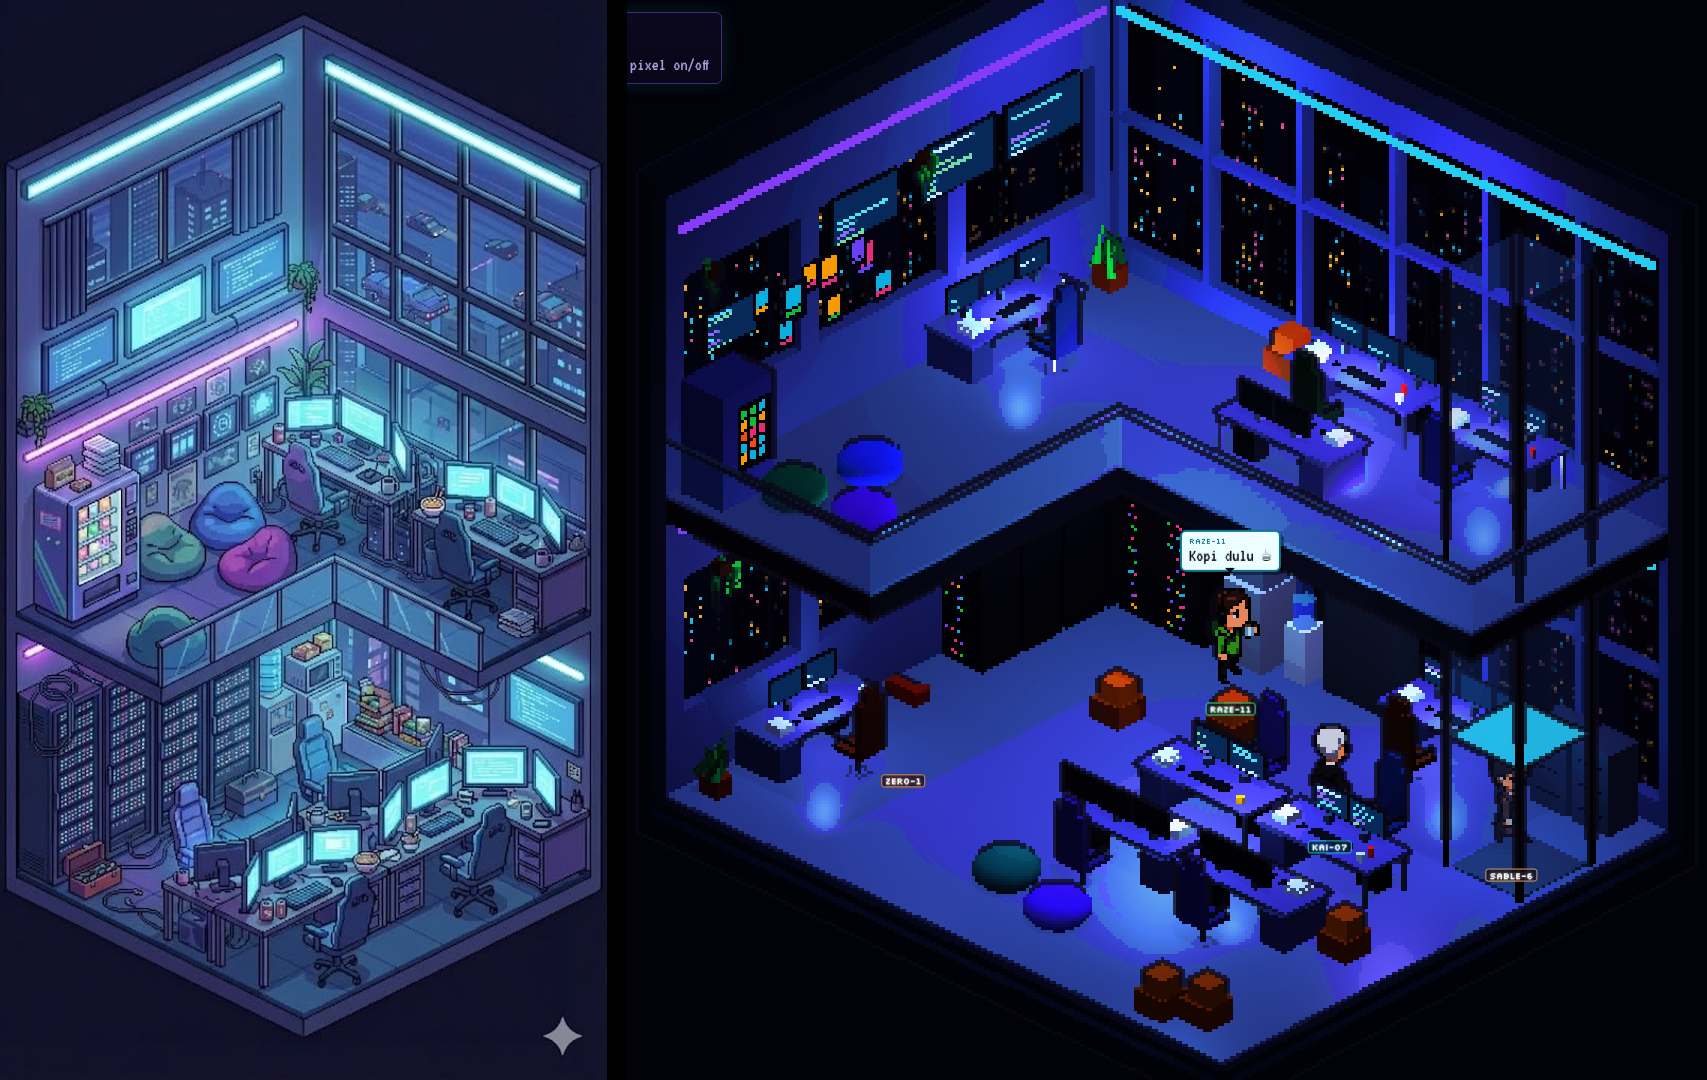
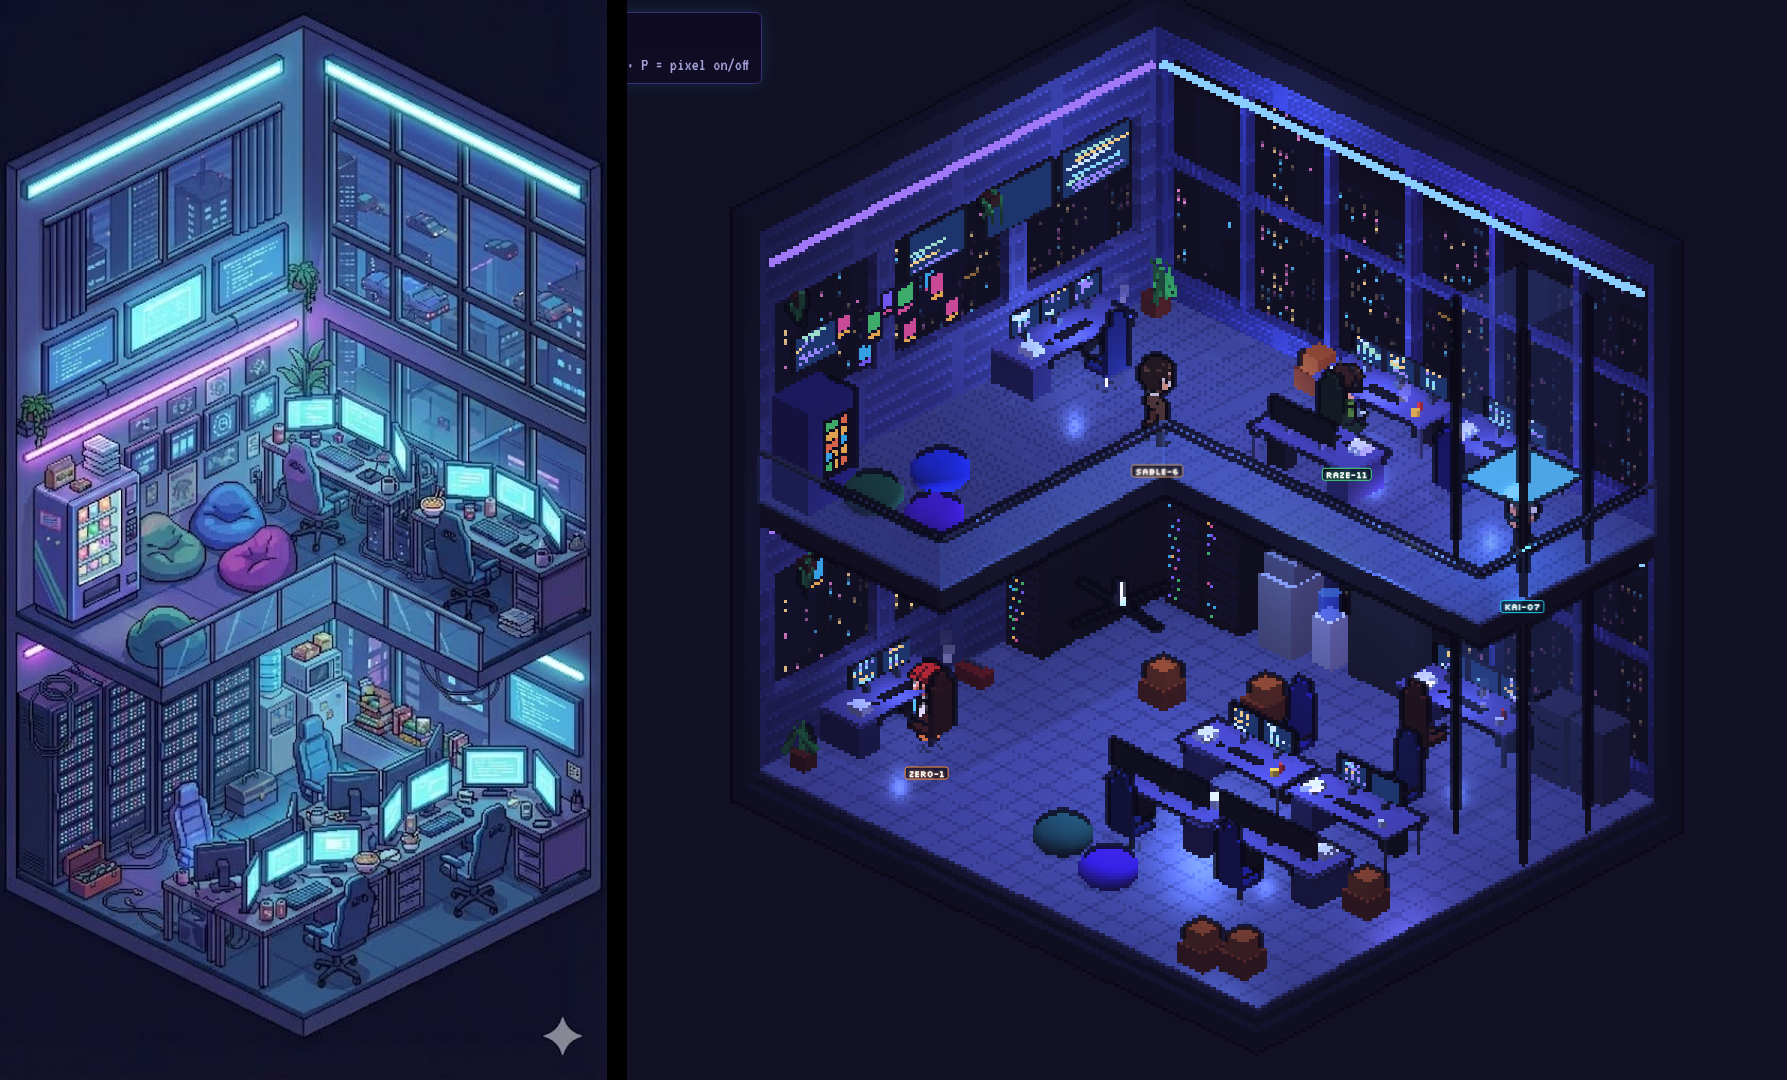
HD-2D round 3: lavender grading, tiled floor/wall panels, rack fronts, animated lights/neon/screens, steam, fan
Claude-Session: https://claude.ai/code/session_01RbqhMKHrdZ1dNBtywxM96j

diff --git a/EtsyBusinessOS/app/web/static/game3d/hq3d.js b/EtsyBusinessOS/app/web/static/game3d/hq3d.js
@@ -14,13 +14,13 @@ renderer.outputColorSpace = THREE.SRGBColorSpace; renderer.toneMapping = THREE.N
 renderer.shadowMap.enabled = true; renderer.shadowMap.type = THREE.PCFSoftShadowMap;
 host.appendChild(renderer.domElement); renderer.domElement.style.cssText = 'width:100%;height:100%;display:block;image-rendering:pixelated';
 const scene = new THREE.Scene();
-let PIX = Q.has('pix') ? +Q.get('pix') : 3, zoom = 1.45, rt;
+let PIX = Q.has('pix') ? +Q.get('pix') : 3, zoom = 1.3, rt;
 const cam = new THREE.OrthographicCamera(-1, 1, 1, -1, -200, 400);
 cam.position.set(30, 25, 30); cam.lookAt(W / 2, H * .92, D / 2);
 const PAL = ['#06092a', '#111129', '#162247', '#292c57', '#2d4e7d', '#313969', '#3b5389', '#4073a1', '#4f5791', '#6190ba', '#6376a9', '#8fd0e4',
   '#67e8f9', '#c084fc', '#f472b6', '#e0f2fe', '#4ade80', '#facc15', '#ef4444', '#fb923c', '#f1c27d', '#a16207', '#7c3aed', '#1e1b4b'].map(c => new THREE.Color(c));
 const post = new THREE.ShaderMaterial({
-  uniforms: { tColor: { value: null }, tDepth: { value: null }, res: { value: new THREE.Vector2() }, pal: { value: PAL }, palMix: { value: Q.has("nopal") ? 0 : .22 } },
+  uniforms: { tColor: { value: null }, tDepth: { value: null }, res: { value: new THREE.Vector2() }, pal: { value: PAL }, palMix: { value: Q.has("pal") ? .3 : 0 } },
   vertexShader: 'varying vec2 vUv; void main(){ vUv = uv; gl_Position = vec4(position.xy, 0., 1.); }',
   fragmentShader: `
     uniform sampler2D tColor; uniform sampler2D tDepth; uniform vec2 res; uniform vec3 pal[24]; uniform float palMix; varying vec2 vUv;
@@ -30,6 +30,10 @@ const post = new THREE.ShaderMaterial({
       vec3 best = pal[0]; float bd = 1e9;
       for (int i = 0; i < 24; i++) { vec3 d = c.rgb - pal[i]; float k = dot(d, d); if (k < bd) { bd = k; best = pal[i]; } }
       vec3 col = mix(c.rgb, best, palMix);
+      float L = dot(col, vec3(.299,.587,.114));
+      col = mix(col, vec3(L), .28);                       // soften saturation
+      col = col * vec3(.94,.92,1.06) + vec3(.045,.04,.085); // lavender lift like the reference
+      col = pow(col, vec3(.92));
       float d0 = dep(vec2(0.)), e = 0.;
       e = max(e, abs(dep(vec2(1.,0.)) - d0)); e = max(e, abs(dep(vec2(-1.,0.)) - d0)); e = max(e, abs(dep(vec2(0.,1.)) - d0)); e = max(e, abs(dep(vec2(0.,-1.)) - d0));
       if (e > .0016 && d0 < .9999) col = mix(col, vec3(.035,.03,.08), .75);
@@ -60,8 +64,13 @@ scene.background = new THREE.Color(0x1a1838);   // plain dark backdrop like the 
 // ================================================================== materials / helpers
 const M = (c, o = {}) => new THREE.MeshStandardMaterial({ color: c, roughness: .8, metalness: .05, ...o });
 const E = c => new THREE.MeshBasicMaterial({ color: c });
+function tile(base, line, n = 8) { return ctex(64, 64, g => { g.fillStyle = base; g.fillRect(0, 0, 64, 64); g.strokeStyle = line; g.lineWidth = 1; for (let k = 0; k <= 64; k += 64 / n * 2) { g.beginPath(); g.moveTo(k, 0); g.lineTo(k, 64); g.moveTo(0, k); g.lineTo(64, k); g.stroke(); } g.fillStyle = 'rgba(255,255,255,.05)'; g.fillRect(2, 2, 14, 14); }); }
+const floorTex = tile('#8f97c4', '#6f77a8'); floorTex.wrapS = floorTex.wrapT = THREE.RepeatWrapping; floorTex.repeat.set(6, 5);
+const wallTex = ctex(32, 64, g => { g.fillStyle = '#6b6aa6'; g.fillRect(0, 0, 32, 64); g.fillStyle = '#5d5c98'; for (let y = 6; y < 64; y += 14) g.fillRect(2, y, 28, 10); g.fillStyle = '#7a79b6'; for (let y = 6; y < 64; y += 14) g.fillRect(2, y, 28, 1); }); wallTex.wrapS = wallTex.wrapT = THREE.RepeatWrapping; wallTex.repeat.set(4, 1);
+const rackTex = ctex(32, 96, g => { g.fillStyle = '#14132a'; g.fillRect(0, 0, 32, 96); for (let y = 4; y < 92; y += 8) { g.fillStyle = '#23224a'; g.fillRect(2, y, 28, 6); g.fillStyle = '#0a0918'; for (let x = 4; x < 22; x += 3) g.fillRect(x, y + 2, 1, 2); } });
+function MT(map, c = 0xffffff) { return new THREE.MeshStandardMaterial({ map, color: c, roughness: .6, metalness: .15 }); }
 const mats = {
-  wallL: M(0x6b6aa6), wallR: M(0x5e6aa8), floor: M(0x8f97c4, { roughness: .35, metalness: .2 }), slab: M(0x1c1b3c), frame: M(0x232248), trim: M(0x121126),
+  wallL: MT(wallTex), wallR: MT(wallTex, 0xdde2ff), floor: new THREE.MeshStandardMaterial({ map: floorTex, roughness: .3, metalness: .25 }), slab: M(0x1c1b3c), frame: M(0x232248), trim: M(0x121126),
   desk: M(0x55528e), deskTop: M(0x7a76b4), metal: M(0x7c86a6, { metalness: .5, roughness: .4 }), dark: M(0x161530),
   glass: new THREE.MeshPhysicalMaterial({ color: 0xa5d8ff, transparent: true, opacity: .22, roughness: .05, depthWrite: false }),
   cyan: E(0x67e8f9), purple: E(0xc084fc), pink: E(0xf472b6),
@@ -73,11 +82,12 @@ function ctex(w, h, draw) { const c = document.createElement('canvas'); c.width 
 const plane = (w, h, t, x, y, z, ry = 0) => { const m = new THREE.Mesh(new THREE.PlaneGeometry(w, h), new THREE.MeshBasicMaterial({ map: t, transparent: true })); m.position.set(x, y, z); m.rotation.y = ry; scene.add(m); return m; };
 
 // ================================================================== lights
+const anims = { pulse: [], neon: [], steam: [] };
 scene.add(new THREE.HemisphereLight(0xc8d0ff, 0x5a4a90, 2.2));
 const key = new THREE.DirectionalLight(0xb9c6ff, .7); key.position.set(16, 28, 12); key.castShadow = true; key.shadow.mapSize.set(2048, 2048);
 Object.assign(key.shadow.camera, { left: -14, right: 14, top: 14, bottom: -14 }); key.target.position.set(W / 2, 0, D / 2); scene.add(key, key.target);
 for (const [x, y, z, c, i] of [[3, H - .6, 2, 0x67e8f9, 30], [8, H - .6, 2, 0xc084fc, 26], [3, 2 * H - .6, 2, 0x67e8f9, 30], [8, 2 * H - .6, 2, 0xc084fc, 26], [8, H - 1, 7, 0x67e8f9, 22], [3, H - 1, 8, 0xa78bfa, 18]]) {
-  const l = new THREE.PointLight(new THREE.Color(c).lerp(new THREE.Color(0xd8dcff), .55), i * .7, 11, 1.5); l.position.set(x, y, z); scene.add(l);
+  const l = new THREE.PointLight(new THREE.Color(c).lerp(new THREE.Color(0xd8dcff), .55), i * .7, 11, 1.5); l.position.set(x, y, z); scene.add(l); anims.pulse.push({ l, base: l.intensity, ph: Math.random() * 6 });
 }
 
 // ================================================================== city seen only through the windows
@@ -118,7 +128,7 @@ function wall(alongX) {
     const y0 = lv * H, top = y0 + H;
     if (!alongX) { B(len, 1.4, len / 2, y0); B(len, 1.6, len / 2, top - 1.6); for (let k = 0; k <= len; k += 3.3) B(.4, H - 3, Math.min(len - .2, k + .2), y0 + 1.4); }
     else { B(len, .5, len / 2, y0); B(len, .5, len / 2, top - .5); for (let k = 0; k <= len; k += 2) B(.14, H - 1, Math.min(len - .07, k + .07), y0 + .5); B(len, .1, len / 2, y0 + H * .5); }
-    if (alongX) box(len - .4, .1, .1, mats.cyan, len / 2, top - .7, .08, scene, false); else box(.1, .1, len - .4, mats.purple, .08, top - .7, len / 2, scene, false);
+    const nm = new THREE.MeshBasicMaterial({ color: alongX ? 0x67e8f9 : 0xc084fc }); anims.neon.push(nm); if (alongX) box(len - .4, .1, .1, nm, len / 2, top - .7, .08, scene, false); else box(.1, .1, len - .4, nm, .08, top - .7, len / 2, scene, false);
   }
 }
 wall(true); wall(false);
@@ -154,7 +164,7 @@ function gamingChair(x, y, z, ry, c) {
   box(.4, .05, .06, mats.dark, 0, .7, .3, g); box(.4, .05, .06, mats.dark, 0, .7, -.3, g);
   box(.06, .4, .06, mats.metal, 0, .05, 0, g); for (let k = 0; k < 5; k++) { const a = k * 1.256; box(.04, .04, .32, mats.metal, Math.cos(a) * .14, .02, Math.sin(a) * .14, g, false).rotation.y = -a; }
 }
-function rack(x, z) { const g = new THREE.Group(); g.position.set(x, 0, z); scene.add(g); box(.85, 2.6, .85, mats.dark, 0, 0, 0, g);
+function rack(x, z) { const g = new THREE.Group(); g.position.set(x, 0, z); scene.add(g); box(.85, 2.6, .85, mats.dark, 0, 0, 0, g); const fp = new THREE.Mesh(new THREE.PlaneGeometry(.8, 2.5), new THREE.MeshBasicMaterial({ map: rackTex })); fp.position.set(0, 1.3, .43); g.add(fp);
   for (let r = 0; r < 12; r++) { box(.7, .02, .02, mats.trim, 0, .2 + r * .2, .43, g, false); for (let k = 0; k < 5; k++) { const l = new THREE.Mesh(new THREE.BoxGeometry(.04, .03, .02), E(pick([0x22d3ee, 0x4ade80, 0xa78bfa, 0xf472b6, 0xfacc15]))); l.position.set(-.3 + k * .08, .24 + r * .2, .44); g.add(l); leds.push(l); } } }
 function plant(x, y, z, big = 1) { box(.36 * big, .38 * big, .36 * big, M(0x9a3412), x, y, z); for (let k = 0; k < 9; k++) { const l = new THREE.Mesh(new THREE.ConeGeometry(.09 * big, .75 * big, 4), M(pick([0x16a34a, 0x22c55e, 0x15803d]))); l.position.set(x + rnd(-.18, .18) * big, y + .7 * big, z + rnd(-.18, .18) * big); l.rotation.set(rnd(-.6, .6), 0, rnd(-.6, .6)); l.castShadow = true; scene.add(l); } }
 function hangingPlant(x, y, z) { for (let k = 0; k < 7; k++) { const l = new THREE.Mesh(new THREE.ConeGeometry(.07, .6, 4), M(0x22c55e)); l.position.set(x + rnd(-.15, .15), y - rnd(0, .4), z + rnd(-.15, .15)); l.rotation.x = Math.PI + rnd(-.4, .4); scene.add(l); } box(.25, .2, .25, M(0x78350f), x, y, z); }
@@ -214,8 +224,13 @@ const rug = new THREE.Mesh(new THREE.PlaneGeometry(3.4, 2.4), M(0x5b21b6, { roug
 bean(5.7, 0, 8.3, 0x0d9488); bean(7.1, 0, 8.6, 0x7c3aed); block('l', 5, 7.6, 7.8, 9.3);
 
 // ---- extra density (desk clusters like the reference)
-function glow(x, y, z) { const l = new THREE.PointLight(0xbfe9ff, 3, 3, 1.5); l.position.set(x, y, z); scene.add(l); }
-for (const [x, y, z] of [[.9, U + 1.3, 3], [6.1, U + 1.3, .9], [8.9, U + 1.3, .9], [8.1, 1.3, .9], [.9, 1.3, 7.4]]) glow(x, y, z);
+function glow(x, y, z, owner) { const l = new THREE.PointLight(0xbfe9ff, 3, 3, 1.5); l.position.set(x, y, z); scene.add(l); anims.pulse.push({ l, base: 3, ph: Math.random() * 6, owner, screen: true }); }
+for (const [x, y, z, o] of [[.9, U + 1.3, 3, 'KAI-07'], [6.1, U + 1.3, .9, 'RAZE-11'], [8.9, U + 1.3, .9], [8.1, 1.3, .9, 'SABLE-6'], [.9, 1.3, 7.4, 'ZERO-1']]) glow(x, y, z, o);
+// steaming mugs + noodle bowls (rising puffs)
+const puffMat = new THREE.SpriteMaterial({ color: 0xe9e7ff, transparent: true, opacity: .5, depthWrite: false });
+for (const [x, y, z] of [[1.0, U + .95, 1.9], [6.9, U + .95, 1.0], [1.0, 1.0, 6.3], [8.8, 1.0, 1.0]]) for (let k = 0; k < 3; k++) { const sp = new THREE.Sprite(puffMat.clone()); sp.scale.set(.12, .12, 1); scene.add(sp); anims.steam.push({ sp, x, y, z, t: k * .8 }); }
+// ceiling fan in the lounge corner
+const fan = new THREE.Group(); fan.position.set(6.4, H - .5, 7.6); scene.add(fan); for (let k = 0; k < 4; k++) { const b = box(1.1, .03, .18, mats.dark, .55, 0, 0, fan, false); b.position.x = 0; b.geometry.translate(.55, 0, 0); b.rotation.y = k * Math.PI / 2; } box(.15, .5, .15, mats.metal, 0, 0, 0, fan, false); spin.push(fan);
 // lower centre cluster: two rows of back-to-back desks with chairs
 for (const [z, ry, cz] of [[4.6, -Math.PI / 2, 5.7], [6.4, Math.PI / 2, 5.3]]) for (const x of [6.6, 9.2]) {
   deskUnit(x, 0, z, ry, null, Math.random() < .5 ? 3 : 2, 2.4); gamingChair(x, 0, z === 4.6 ? 3.5 : 7.5, z === 4.6 ? Math.PI / 2 : -Math.PI / 2, pick([0x3730a3, 0x1e3a8a, 0x4c1d95]));
@@ -363,9 +378,18 @@ renderer.setAnimationLoop(() => {
   if (ct > .1) { drawCity(ct); ct = 0; }
   if (ft > .18) { ft = 0;
     for (const s of screens) { const c = s.t.userData.c, g = c.getContext('2d'), w = c.width, h = c.height, busy = s.kind || !s.owner || ['working', 'queued'].includes(npcs[s.owner]?.server.status);
-      g.fillStyle = '#2a6ea0'; g.fillRect(0, 0, w, h); for (let k = 0; k < Math.floor(h / 4); k++) { if (Math.random() < (busy ? .25 : .7)) continue; g.fillStyle = pick(['#e0f7ff', '#a5f3fc', '#c4b5fd', '#bbf7d0']); g.fillRect(2, 2 + k * 4, rnd(4, w - 4), 2); } s.t.needsUpdate = true; }
+      if (!busy && Math.random() < .7) continue;
+      g.drawImage(c, 0, -3); g.fillStyle = '#2a6ea0'; g.fillRect(0, h - 3, w, 3);                       // scroll up
+      if (Math.random() < .85) { g.fillStyle = pick(['#e0f7ff', '#a5f3fc', '#c4b5fd', '#bbf7d0', '#fde68a']); g.fillRect(2 + Math.floor(rnd(0, 4)) * 2, h - 3, rnd(4, w - 6), 2); }
+      if (Math.random() < .03) { g.fillStyle = '#2a6ea0'; g.fillRect(0, 0, w, h); }
+      s.t.needsUpdate = true; }
     for (const l of leds) l.visible = Math.random() > .25; }
-  for (const s of spin) s.rotation.y += dt * .8;
+  for (const s of spin) s.rotation.y += dt * (s === fan ? 3 : .8);
+  const tt = performance.now() / 1000;
+  for (const p of anims.pulse) { const busy = p.owner && ['working', 'queued'].includes(npcs[p.owner]?.server.status);
+    p.l.intensity = p.screen ? p.base * (busy ? .9 + Math.random() * .5 : .55) : p.base * (.85 + .15 * Math.sin(tt * 1.3 + p.ph)) * (Math.random() < .004 ? .3 : 1); }
+  for (const m of anims.neon) m.color.setHSL(m.color.getHSL({}).h, .85, .62 + .06 * Math.sin(tt * 2.1) + (Math.random() < .01 ? -.25 : 0));
+  for (const s of anims.steam) { s.t += dt; const k = (s.t % 2.4) / 2.4; s.sp.position.set(s.x + Math.sin(s.t * 3) * .04, s.y + k * .6, s.z); s.sp.material.opacity = .5 * (1 - k); s.sp.scale.setScalar(.08 + k * .18); }
   for (const n of Object.values(npcs)) n.update(dt);
   renderer.setRenderTarget(rt); renderer.render(scene, cam); renderer.setRenderTarget(null); renderer.render(postScene, postCam);
   const w = host.clientWidth, h = host.clientHeight, v = new THREE.Vector3();
